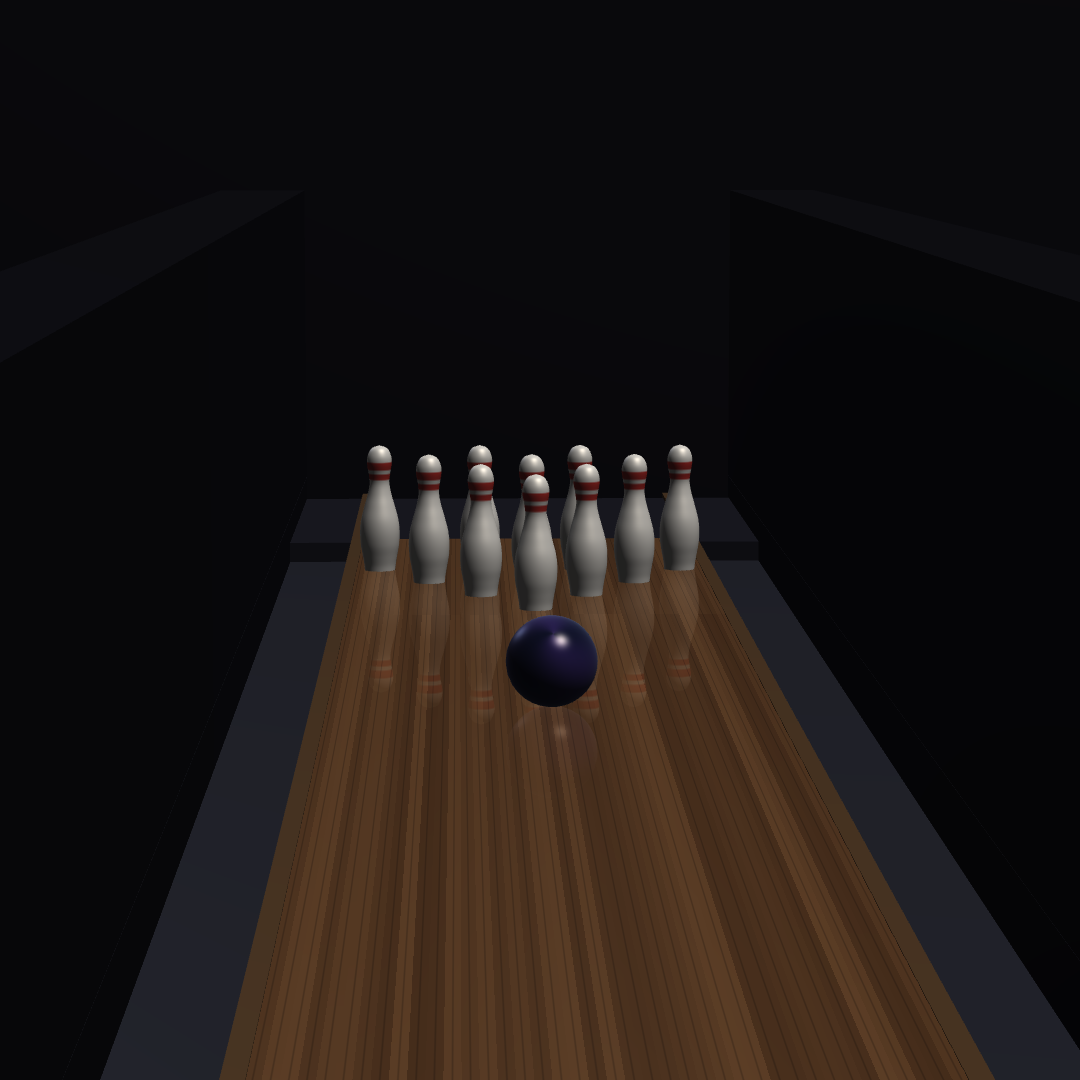
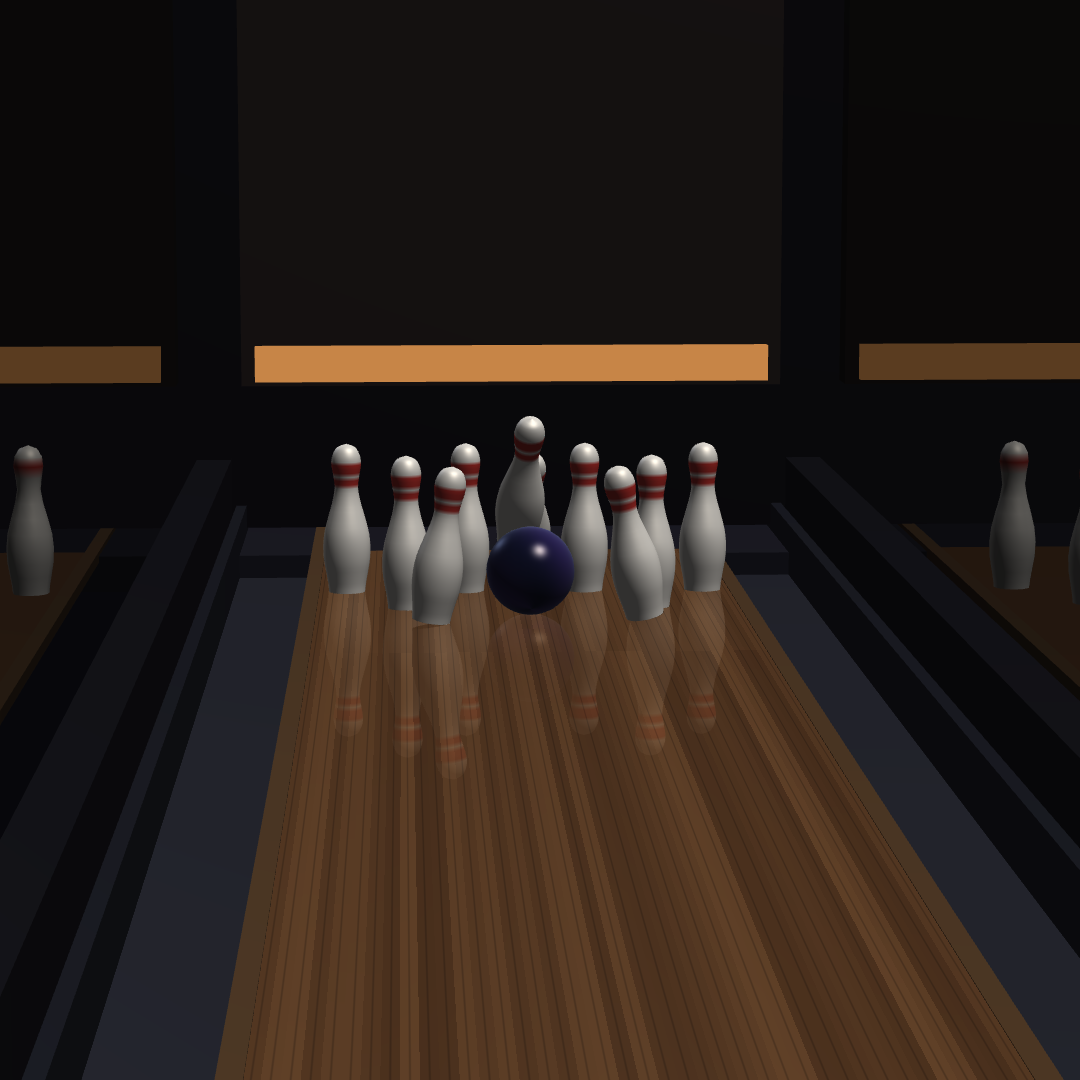
Build out the alley around Bowling's lane
The room was one lit strip in a black void — the owner's note was that
it "seems so dark". Added what actually makes it read as an alley:
lanes either side with their own pins and decks, a lit masking unit
over each pin deck (the panel that hides the pinsetter, with a warm
valance along its lower edge), the back wall pulled in tight behind the
decks, a ceiling, and a receding row of ceiling fixtures — which is
finally something for the lane's oil sheen to be a reflection OF.
Ambient 0.16 -> 0.24.

New shader bits: uMode 3 emissive, and a uDim multiplier so background
copies fade back with distance. bake() merges transformed copies into
one buffer, so a background pin rack or a whole light row is one draw
instead of ten or thirty.

Worth recording that I optimised the wrong thing first. The frame rate
had dropped, it looked like the new scenery, so I baked the racks and
light rows and put the background lanes on the cheap shader. Neither
moved it. Measuring against mesh density showed the real cost was the
pin smoothing from earlier the same day: 2k -> 13.4k verts per pin,
drawn twice for the reflection, ~269k verts a frame before any of this
scenery existed — and I had never re-measured after that change.

Smoothness lives in the normals, not the polygon count, so pinMesh(3,
22) still looks smooth and takes headless 23 -> 41 fps with the full
scene in.

Verified: full games score correctly, zero console errors, no overflow,
[…]

diff --git a/toys/bowling/script.js b/toys/bowling/script.js
@@ -174,8 +174,8 @@
     [0.268, 0.0299], [0.298, 0.0332], [0.328, 0.0379], [0.352, 0.0349],
     [0.372, 0.0231], [0.381, 0.0000]
   ];
-  function pinMesh() {
-    var pos = [], nor = [], col = [], seg = 34;
+  function pinGeo(sub, seg) {
+    var pos = [], nor = [], col = [];
     function shade(h) {
       // two red bands near the neck, like a real pin
       var band = (h > 0.276 && h < 0.298) || (h > 0.308 && h < 0.330);
@@ -208,7 +208,7 @@
       return out;
     }
 
-    var prof = catmull(PIN_PROFILE, 5);
+    var prof = catmull(PIN_PROFILE, sub);
 
     // per-profile-point normal in the (radius, height) plane
     var pn = [];
@@ -256,7 +256,11 @@
         col.push(0.74, 0.72, 0.68);
       }
     }
-    return buildMesh(pos, nor, col);
+    return { pos: pos, nor: nor, col: col };
+  }
+  function pinMesh(sub, seg) {
+    var g = pinGeo(sub, seg);
+    return buildMesh(g.pos, g.nor, g.col);
   }
 
   /* The lane is a single upward face, not a box. A box has a bottom, and the
@@ -272,7 +276,7 @@
     return buildMesh(pos, nor, col);
   }
 
-  function boxMesh(sx, sy, sz, c) {
+  function boxGeo(sx, sy, sz, c) {
     var pos = [], nor = [], col = [];
     var faces = [
       [[ 1,0,0], [[1,-1,-1],[1,1,-1],[1,1,1],[1,-1,1]]],
@@ -289,6 +293,29 @@
         pos.push(p[0] * sx / 2, p[1] * sy / 2, p[2] * sz / 2);
         nor.push(n[0], n[1], n[2]);
         col.push(c[0], c[1], c[2]);
+      }
+    });
+    return { pos: pos, nor: nor, col: col };
+  }
+  function boxMesh(sx, sy, sz, c) {
+    var g = boxGeo(sx, sy, sz, c);
+    return buildMesh(g.pos, g.nor, g.col);
+  }
+
+  /* Bake several transformed copies into ONE buffer.
+   *
+   * Scenery is cheap in vertices and expensive in DRAW CALLS: forty background
+   * pins and thirty light fixtures as individual draws cost ~100 buffer rebinds
+   * a frame and took this from 66fps to 19. Baked, each rack or light row is a
+   * single draw. */
+  function bake(parts) {
+    var pos = [], nor = [], col = [];
+    parts.forEach(function (q) {
+      var g = q.geo, t = q.at;
+      for (var i = 0; i < g.pos.length; i += 3) {
+        pos.push(g.pos[i] + t[0], g.pos[i + 1] + t[1], g.pos[i + 2] + t[2]);
+        nor.push(g.nor[i], g.nor[i + 1], g.nor[i + 2]);
+        col.push(g.col[i], g.col[i + 1], g.col[i + 2]);
       }
     });
     return buildMesh(pos, nor, col);
@@ -311,13 +338,15 @@
     "precision highp float;",
     "varying vec3 vN, vW, vC;",
     "uniform vec3 uEye;",
-    "uniform int uMode;",       // 0 plain, 1 lane, 2 ball
+    "uniform int uMode;",       // 0 plain, 1 lane, 2 ball, 3 emissive
     "uniform float uAlpha;",
     "uniform float uOilEnd;",
+    "uniform float uDim;",      // scales the result — background copies fade back
     "",
     "float hash(vec2 p){ return fract(sin(dot(p, vec2(127.1, 311.7))) * 43758.5453); }",
     "",
     "void main(){",
+    "  if (uMode == 3) { gl_FragColor = vec4(vC * uDim, uAlpha); return; }",
     "  vec3 N = normalize(vN);",
     "  vec3 V = normalize(uEye - vW);",
     // one raking key light down the lane, plus a cool fill so nothing goes flat black
@@ -344,7 +373,7 @@
     "",
     "  float d1 = max(dot(N, L1), 0.0);",
     "  float d2 = max(dot(N, L2), 0.0);",
-    "  vec3 diff = base * (0.16 + 0.92 * d1 + 0.20 * d2);",
+    "  vec3 diff = base * (0.24 + 0.90 * d1 + 0.26 * d2);",
     "  vec3 H1 = normalize(L1 + V);",
     "  float s1 = pow(max(dot(N, H1), 0.0), shine) * spec;",
     "  vec3 H2 = normalize(L2 + V);",
@@ -367,7 +396,7 @@
     // distance haze so the far end of the room falls away
     "  float fog = 1.0 - exp(-max(vW.z - 8.0, 0.0) * 0.020);",
     "  c = mix(c, vec3(0.045, 0.043, 0.062), clamp(fog, 0.0, 0.62));",
-    "  gl_FragColor = vec4(c, uAlpha);",
+    "  gl_FragColor = vec4(c * uDim, uAlpha);",
     "}"
   ].join("\n");
 
@@ -390,7 +419,7 @@
     col: gl.getAttribLocation(prog, "aCol")
   };
   var U = {};
-  ["uProj","uView","uModel","uNorm","uEye","uMode","uAlpha","uOilEnd"].forEach(function (n) {
+  ["uProj","uView","uModel","uNorm","uEye","uMode","uAlpha","uOilEnd","uDim"].forEach(function (n) {
     U[n] = gl.getUniformLocation(prog, n);
   });
 
@@ -406,18 +435,42 @@
     var s = Math.sin(u * Math.PI * 4 + v * 5.0) * 0.5 + 0.5;
     return [0.06 + 0.10 * s, 0.07 + 0.05 * s, 0.16 + 0.16 * s];
   });
-  var meshPin = pinMesh();
+  var meshPin = pinMesh(3, 22);
+  // one draw per background rack instead of ten
+  var pinLowGeo = pinGeo(1, 12);
+  var meshPinRack = bake(PIN_SPOTS.map(function (sp) {
+    return { geo: pinLowGeo, at: [sp[0], PIN_COM, LANE_LEN + sp[1]] };
+  }));
   var meshLane = planeMesh(LANE_HALF * 2, DECK_END + 1.3, [0.36, 0.23, 0.13]);
+  var meshLaneFlat = planeMesh(LANE_HALF * 2, DECK_END + 1.3, [0.30, 0.195, 0.115]);
   var LEN = DECK_END + 2.6;
   var meshGutterFloor = boxMesh(GUTTER_W, 0.02, LEN, [0.135, 0.140, 0.170]);
   var meshGutterWall  = boxMesh(0.030, 0.150, LEN, [0.095, 0.100, 0.125]);
   var meshLaneCap     = boxMesh(0.038, 0.030, LEN, [0.30, 0.215, 0.135]);
-  var meshWall = boxMesh(9.0, 3.4, 0.3, [0.055, 0.055, 0.075]);
+  var meshWall = boxMesh(13.0, 3.9, 0.3, [0.052, 0.050, 0.066]);
   var meshSide = boxMesh(0.3, 1.2, DECK_END + 2.6, [0.05, 0.05, 0.068]);
   var meshDeck = boxMesh(LANE_HALF * 2 + GUTTER_W * 2, 0.1, 1.2, [0.10, 0.10, 0.13]);
   var meshMarker = boxMesh(0.045, 0.006, 0.30, [0.55, 0.40, 0.20]);
+  /* Scenery. The room was a black void with one lane in it — these are what
+   * make it read as an alley: lanes either side receding into haze, the lit
+   * masking unit that sits above every pin deck, and a row of ceiling fixtures
+   * that finally give the lane's oil sheen something to be a reflection OF. */
+  var meshDivider   = boxMesh(0.10, 0.26, LEN, [0.085, 0.085, 0.105]);
+  var meshMask      = boxMesh(LANE_HALF * 2 + GUTTER_W * 2, 1.85, 0.12, [0.145, 0.118, 0.105]);
+  var meshMaskGlow  = boxMesh(LANE_HALF * 2 + GUTTER_W * 2 - 0.08, 0.10, 0.05, [0.78, 0.52, 0.28]);
+  var meshCeiling   = boxMesh(15.0, 0.20, LEN + 3.0, [0.030, 0.030, 0.042]);
+  var meshFixture   = boxMesh(1.35, 0.05, 0.16, [0.95, 0.82, 0.62]);
+  var meshFixHous   = boxMesh(1.50, 0.14, 0.26, [0.055, 0.055, 0.070]);
+  var meshBackGlow  = boxMesh(11.0, 0.75, 0.05, [0.19, 0.12, 0.085]);
+  // the whole receding row of ceiling fixtures, baked: housings and lamps
+  var fixHousGeo = boxGeo(1.50, 0.14, 0.26, [0.055, 0.055, 0.070]);
+  var fixLampGeo = boxGeo(1.35, 0.05, 0.16, [0.95, 0.82, 0.62]);
+  var lightZ = [];
+  for (var lzi = 1.5; lzi < DECK_END; lzi += 3.6) lightZ.push(lzi);
+  var meshLightHous = bake(lightZ.map(function (z) { return { geo: fixHousGeo, at: [0, 3.42, z] }; }));
+  var meshLightLamp = bake(lightZ.map(function (z) { return { geo: fixLampGeo, at: [0, 3.36, z] }; }));
 
-  function drawMesh(m, model, mode, alpha) {
+  function drawMesh(m, model, mode, alpha, dim) {
     gl.bindBuffer(gl.ARRAY_BUFFER, m.pos);
     gl.enableVertexAttribArray(A.pos); gl.vertexAttribPointer(A.pos, 3, gl.FLOAT, false, 0, 0);
     gl.bindBuffer(gl.ARRAY_BUFFER, m.nor);
@@ -428,6 +481,7 @@
     gl.uniformMatrix3fv(U.uNorm, false, new Float32Array(mNormal(model)));
     gl.uniform1i(U.uMode, mode || 0);
     gl.uniform1f(U.uAlpha, alpha === undefined ? 1 : alpha);
+    gl.uniform1f(U.uDim, dim === undefined ? 1 : dim);
     gl.drawArrays(gl.TRIANGLES, 0, m.n);
   }
 
@@ -1489,15 +1543,51 @@
 
     // room
     var zc = LEN / 2 - 1.3;
+
+    /* Neighbouring lanes. Two either side, dimmed with distance so the eye
+     * stays on the one you are bowling — this is what turns a lit strip in a
+     * void into somewhere. Their pins use the low-poly mesh: scenery is not
+     * worth twenty full-detail lathes a frame. */
+    var LANE_PITCH = 1.72;
+    for (var nb = -1; nb <= 1; nb++) {
+      if (nb === 0) continue;
+      var nx = nb * LANE_PITCH;
+      var dim = 0.5;
+      drawMesh(meshLaneFlat, mTranslate(nx, 0, (DECK_END - 1.3) / 2), 0, 1, dim);
+      for (var ng = -1; ng <= 1; ng += 2) {
+        drawMesh(meshLaneCap, mTranslate(nx + ng * (LANE_HALF + 0.019), -0.014, zc), 0, 1, dim);
+      }
+      drawMesh(meshDeck, mTranslate(nx, -0.062, DECK_END + 0.6), 0, 1, dim);
+      drawMesh(meshPinRack, mTranslate(nx, 0, 0), 0, 1, dim);
+      // each lane gets its own lit masking unit over the deck
+      drawMesh(meshMask, mTranslate(nx, 1.36, DECK_END + 0.32), 0, 1, dim);
+      drawMesh(meshMaskGlow, mTranslate(nx, 0.50, DECK_END + 0.24), 3, 1, dim * 0.9);
+    }
+
+    // this lane's gutters and dividers
     for (var g = -1; g <= 1; g += 2) {
       drawMesh(meshGutterFloor, mTranslate(g * (LANE_HALF + GUTTER_W / 2), -0.085, zc), 0);
       drawMesh(meshGutterWall, mTranslate(g * (LANE_HALF + GUTTER_W + 0.015), -0.010, zc), 0);
       drawMesh(meshLaneCap, mTranslate(g * (LANE_HALF + 0.019), -0.014, zc), 0);
+      drawMesh(meshDivider, mTranslate(g * (LANE_PITCH / 2), 0.07, zc), 0, 1, 0.8);
     }
-    drawMesh(meshSide, mTranslate(-(LANE_HALF + GUTTER_W + 0.15), 0.5, (DECK_END + 2.6) / 2 - 1.3), 0);
-    drawMesh(meshSide, mTranslate(LANE_HALF + GUTTER_W + 0.15, 0.5, (DECK_END + 2.6) / 2 - 1.3), 0);
+
     drawMesh(meshDeck, mTranslate(0, -0.062, DECK_END + 0.6), 0);
-    drawMesh(meshWall, mTranslate(0, 1.6, DECK_END + 1.4), 0);
+    drawMesh(meshMask, mTranslate(0, 1.36, DECK_END + 0.32), 0);
+    drawMesh(meshMaskGlow, mTranslate(0, 0.50, DECK_END + 0.24), 3);
+    drawMesh(meshWall, mTranslate(0, 1.95, DECK_END + 0.62), 0);
+    drawMesh(meshBackGlow, mTranslate(0, 2.58, DECK_END + 0.45), 3, 1, 0.7);
+    drawMesh(meshCeiling, mTranslate(0, 3.62, zc), 0);
+
+    /* Ceiling fixtures receding down the room. They are the reason the lane
+     * has a long wet highlight, and they give the empty upper half of the
+     * frame something to read. */
+    for (var lr = -1; lr <= 1; lr++) {
+      var lx = lr * LANE_PITCH * 2, ld = lr === 0 ? 1 : 0.26;
+      drawMesh(meshLightHous, mTranslate(lx, 0, 0), 0, 1, ld);
+      drawMesh(meshLightLamp, mTranslate(lx, 0, 0), 3, 1, ld * 0.95);
+    }
+
     for (var a = -3; a <= 3; a++) {
       if (a === 0) continue;
       drawMesh(meshMarker, mTranslate(a * 0.135, 0.0015, 4.57), 0);

diff --git a/.ai/memory/HANDOFF.md b/.ai/memory/HANDOFF.md
@@ -11,7 +11,7 @@ It is the authoritative current-state bridge. (A richer running log lives in the
 `~/.ai/memory/PULSE.md`, but that is machine-local and may NOT exist on every device — trust
 this file when they disagree; `project.md` here is pre-2026-06 and stale.)
 
-**Last updated: 2026-08-06 (No. 107 Bowling; relevance search; three new tools 104–106; Accretion pace; audio sign-off).** This is a handoff, not a journal: keep ONE current-state block and overwrite it each session. Full history is preserved verbatim: toys 001–069 in [archive/HANDOFF-archive-2026-07-08.md](archive/HANDOFF-archive-2026-07-08.md); the 2026-07-08 → 2026-07-25 journal (toys 070–100, ticket economy + Prize Counter, Shuriken Night arc, every per-toy bug/lesson) in [archive/HANDOFF-archive-2026-07-27.md](archive/HANDOFF-archive-2026-07-27.md).
+**Last updated: 2026-08-07 (Bowling alley scenery pass; No. 107 Bowling shipped 08-06).** This is a handoff, not a journal: keep ONE current-state block and overwrite it each session. Full history is preserved verbatim: toys 001–069 in [archive/HANDOFF-archive-2026-07-08.md](archive/HANDOFF-archive-2026-07-08.md); the 2026-07-08 → 2026-07-25 journal (toys 070–100, ticket economy + Prize Counter, Shuriken Night arc, every per-toy bug/lesson) in [archive/HANDOFF-archive-2026-07-27.md](archive/HANDOFF-archive-2026-07-27.md).
 
 ## Current state
 
@@ -24,6 +24,8 @@ this file when they disagree; `project.md` here is pre-2026-06 and stale.)
   - ⚠ **Two constants that must agree:** `GUTTER_EDGE` and `AIM_LIMIT`. They were independent expressions (0.467 vs 0.399), so the widest aim sat 7cm inside the channel and **a gutter ball was unrollable**. The aim limit now reaches just PAST the lip — stopping short is not enough, because a dead-straight ball riding the edge never drifts.
   - **Render gotchas, all real:** a plane's triangle winding must yield a **+y normal** or back-face culling deletes the whole lane; **coplanar surfaces z-fight** (lane plane and deck box both topped at y=0 — that was the "flashing wood"); reflections must be drawn BEFORE the lane and the lane blended over them, and **only standing pins reflect** (a toppled pin's mirror sits above the gutter floor and reads as a second pin in the channel); lathe meshes need a **resampled profile + per-vertex normals** or they look like stacked washers; single-sided caps vanish from the wrong angle, so the pin base is wound both ways.
   - **Audio was rewritten after the owner said it was bad.** The pin voice had been 240Hz with 300ms tails — that is a marimba. Maple is bright and dry: a filtered-noise transient plus two inharmonic modes at 700–1900Hz, gone in ~120ms. Roll is brown noise with a speed-tracked resonant peak. **A ten-pin scatter fires dozens of contacts per frame** — voices are now capped at the 3 hardest with rate limiting, which was most of the mush. Still needs owner ears.
+  - **Alley scenery pass (2026-08-07)**, built because the owner said the scene "seems so dark" — neighbouring lanes with their own pins/decks, lit **masking units** above each pin deck (the panel that hides the pinsetter, with a warm valance strip), back wall pulled in tight, ceiling, and a receding row of **ceiling fixtures** that finally give the lane's oil sheen something to be a reflection OF. Ambient 0.16 → 0.24. New shader bits: `uMode 3` emissive and a `uDim` multiplier so background copies fade back; `bake()` merges transformed copies into one buffer.
+  - ⚠ **PERFORMANCE LESSON — I optimised the wrong thing for two rounds.** The fps drop looked like the new scenery, so I baked the background racks/light rows and cheapened their shader. **Neither helped.** Measuring against mesh density showed the real cost was **the pin smoothing done earlier the same day**: it took each pin from ~2k to **13.4k verts**, drawn twice (real + reflection) = ~269k verts/frame *before any scenery existed*, and I had never re-measured after that change. **Smoothness comes from the NORMALS, not the polygon count** — `pinMesh(3, 22)` still looks smooth and took headless 23 → 41 fps. **Re-measure after any mesh-density change, and measure before optimising.**
   - **`scripts/poses/` is new and load-bearing:** card/OG poses live in the repo, not the scratchpad, so captures are reproducible (the Brick Smasher lesson). They drive the page through **real input only**, never a debug hook. Bowling's card uses a **tight lens** (render 1700², keep the middle 1080) because the pin-deck camera sits 4.7m back.
 
 
